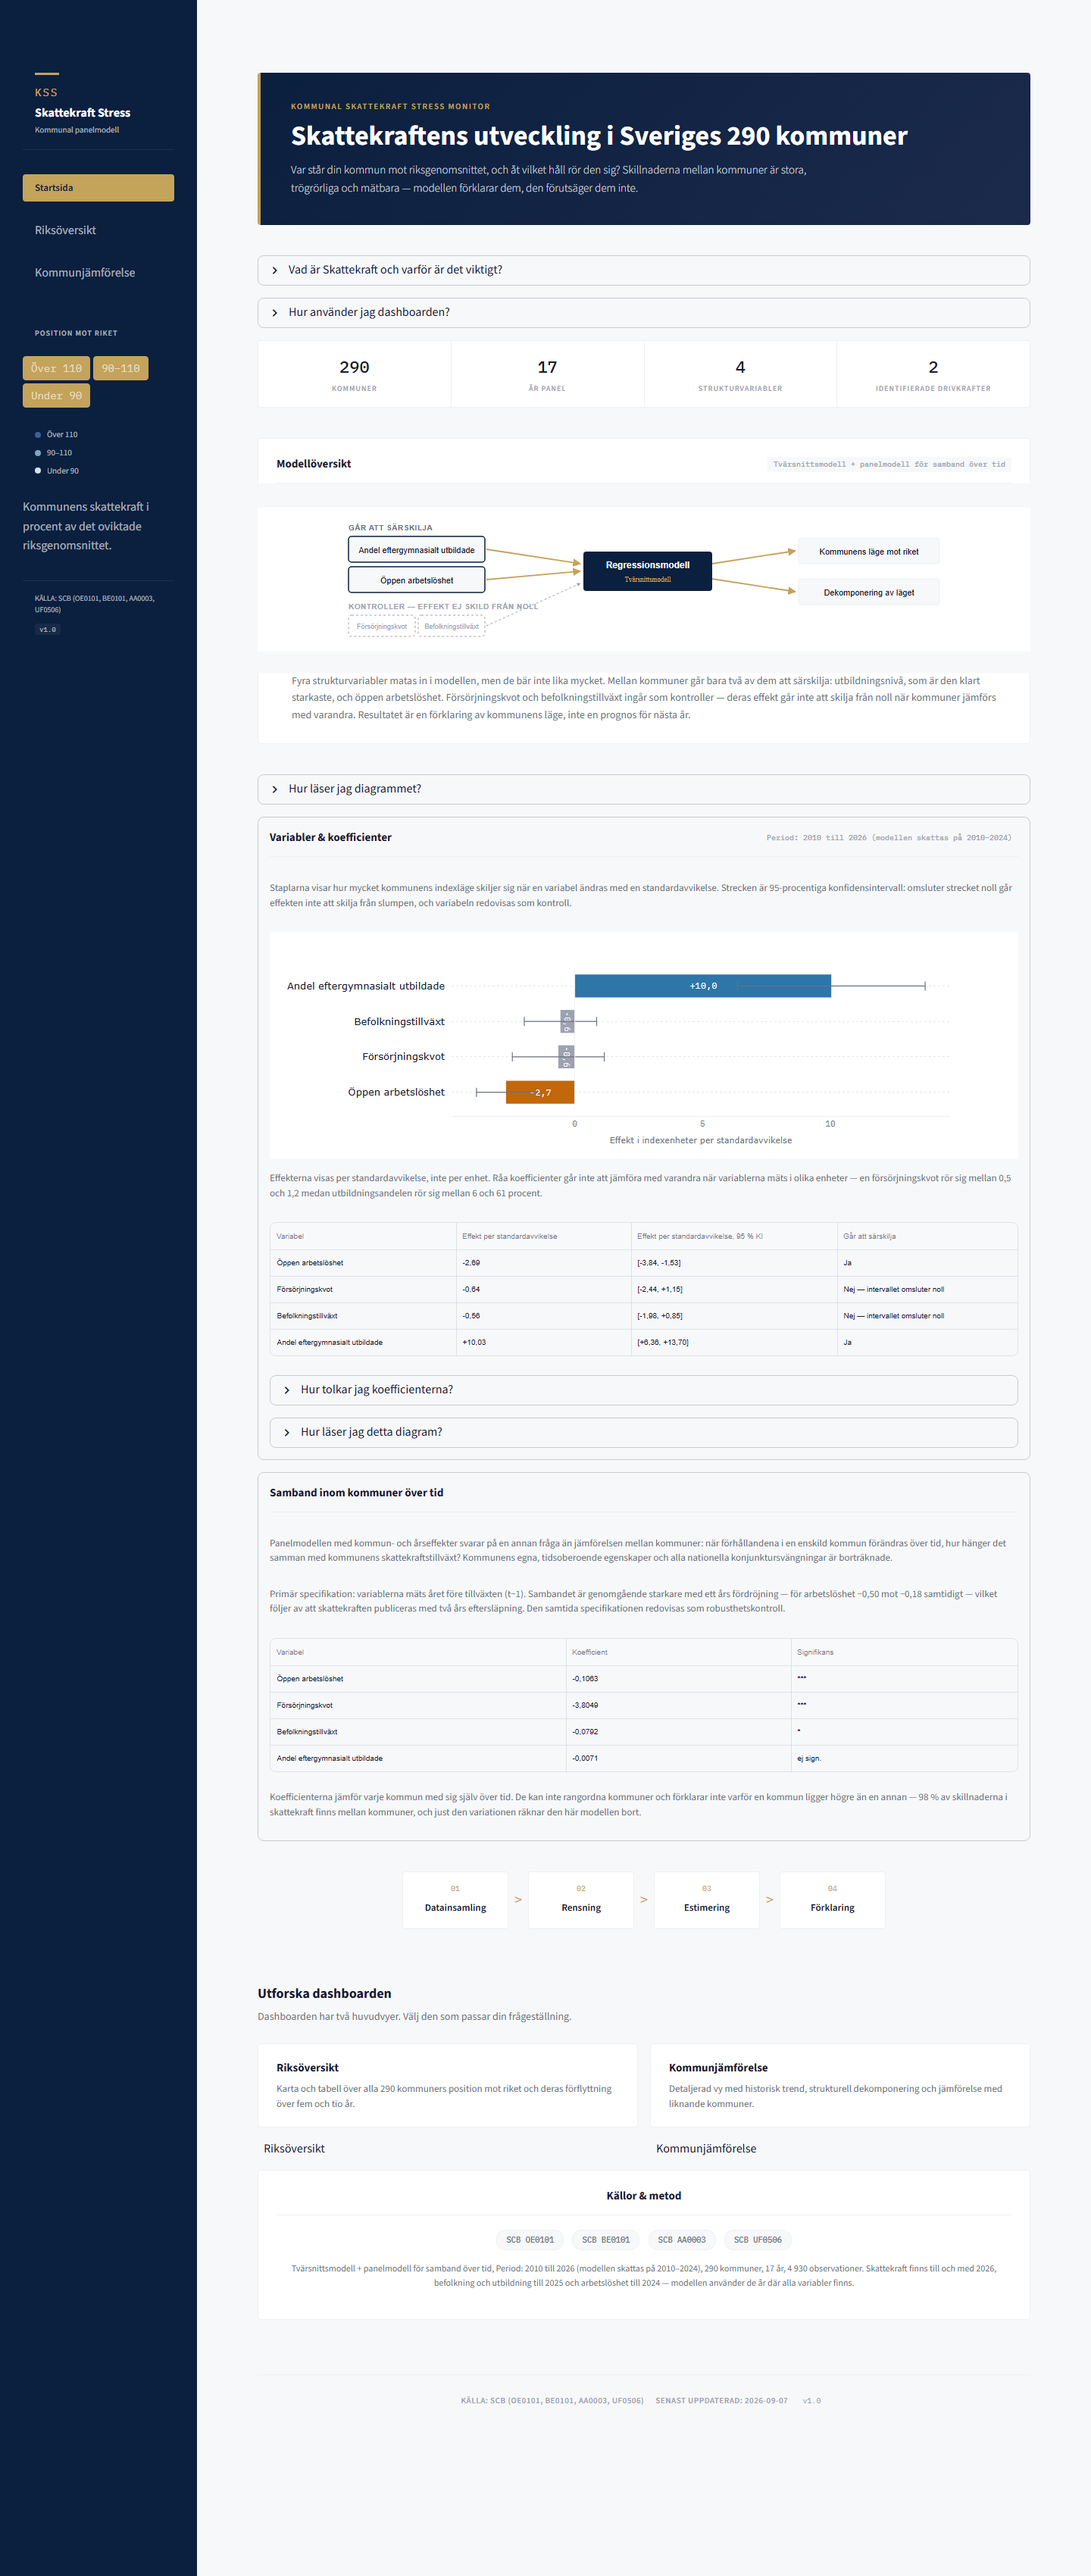
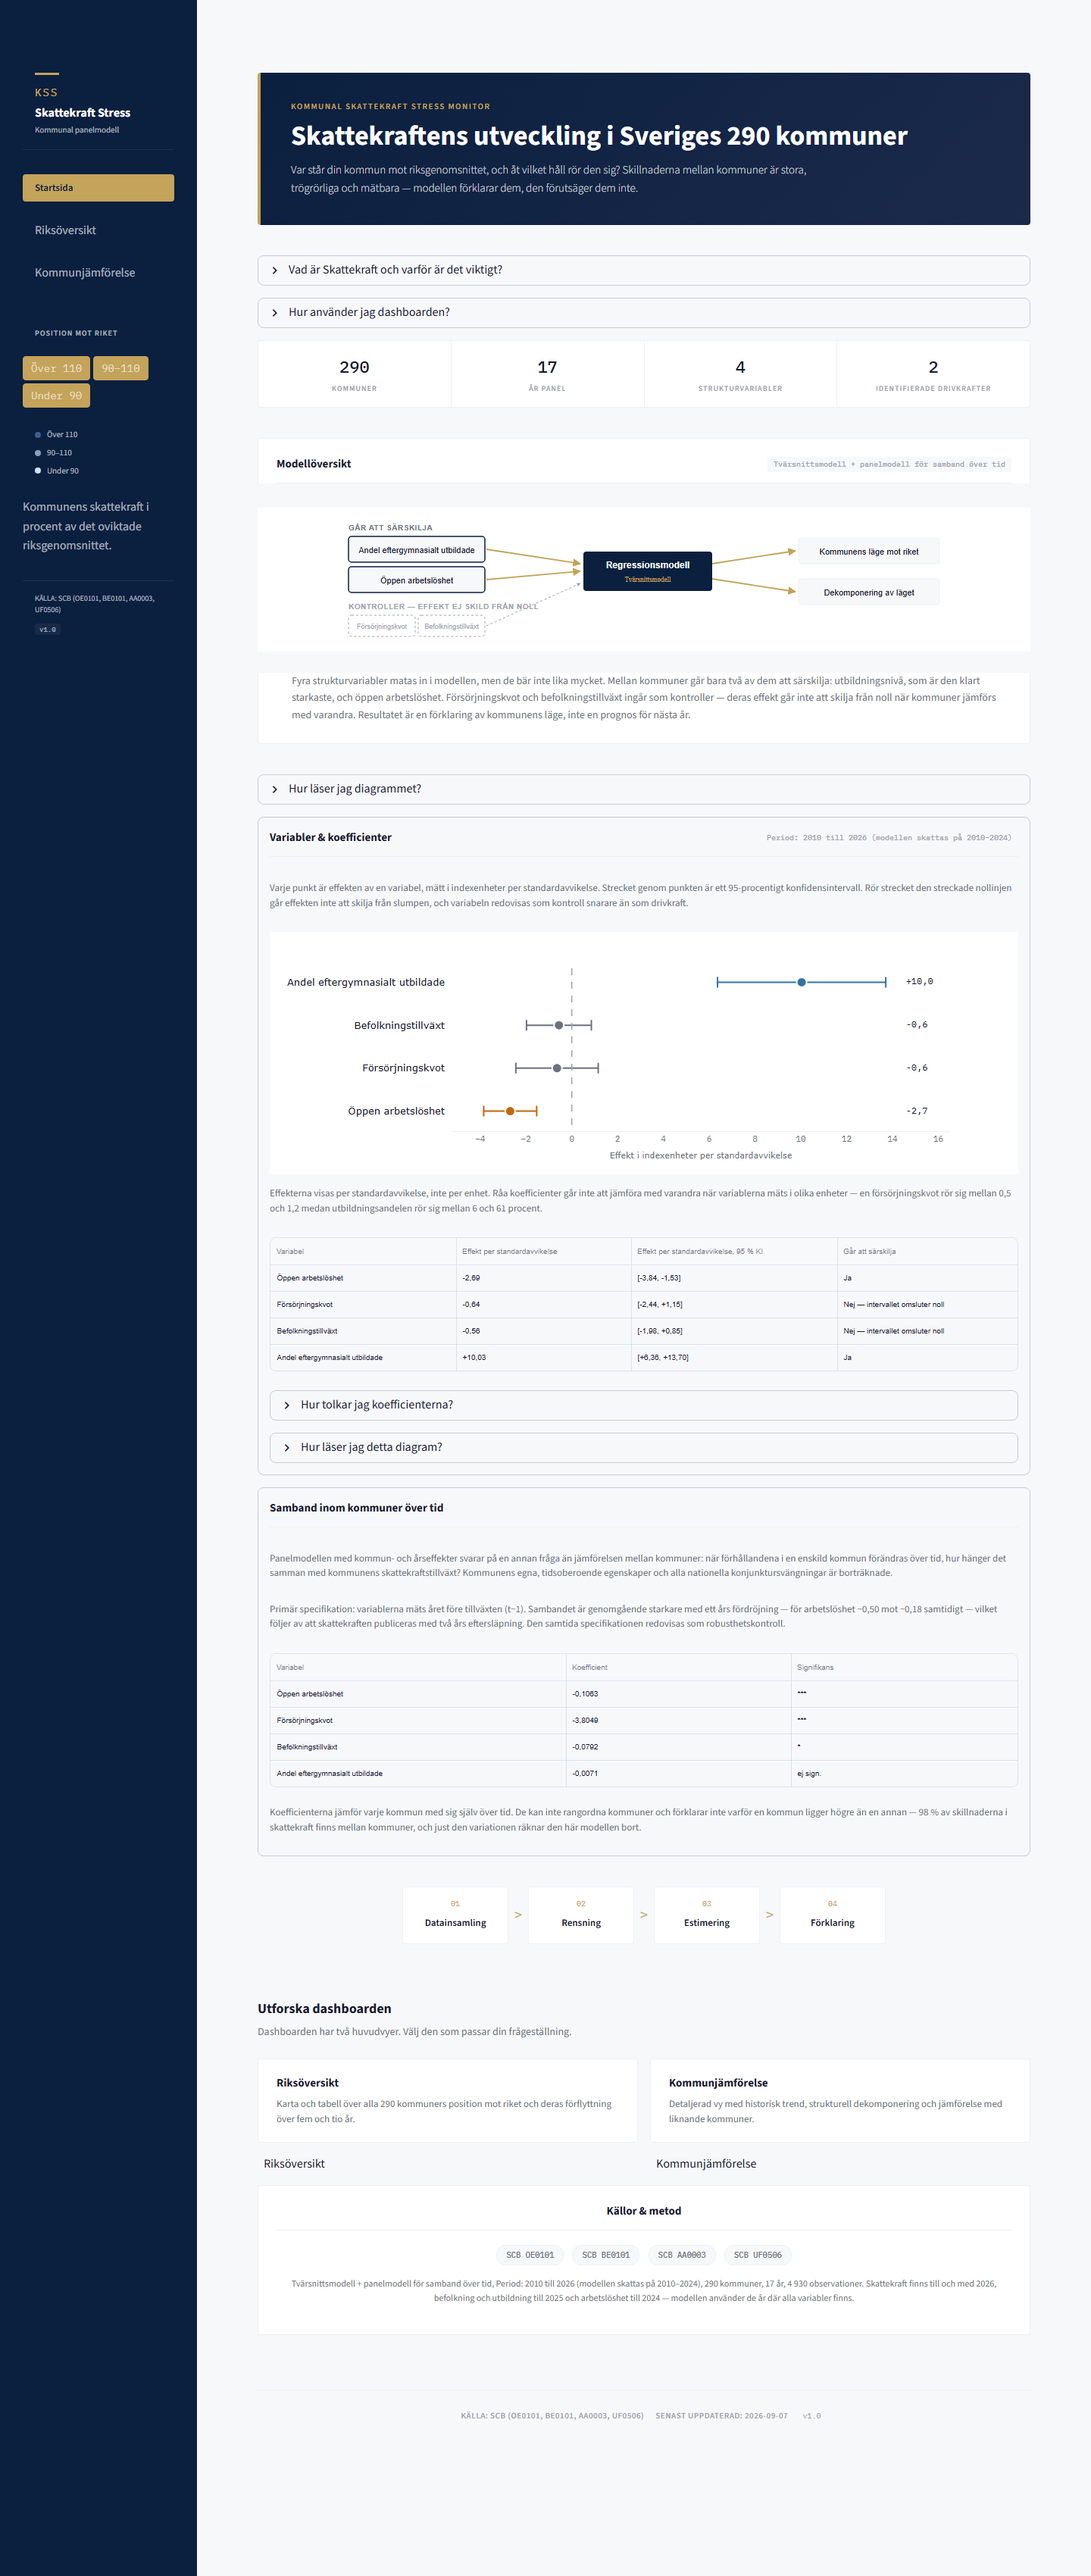
fix: the coefficient chart hid half of every interval behind its own bars
Reported as "the interval within the graphs is not in sync", and it was. A bar
encodes accumulation from zero, and the fill occupied exactly the space the
confidence interval needed: education's interval runs +6.4 to +13.7, so its
entire lower half sat inside a bar drawn from 0 to +10 and could not be seen.
The two control bars were worse -- 0.6 wide with intervals spanning 3.6 --
so Plotly rotated their value labels 90 degrees and squeezed them inside a
mark a few pixels across, where they were illegible.

Rebuilt as a dot-and-whisker: a point at the estimate, the full interval as a
line, and a dashed zero reference. Nothing is hidden, and the thing that
actually decides whether a variable is identified -- whether its interval
touches zero -- is now readable at a glance. The two grey controls visibly
cross the line; the two coloured ones visibly do not.

Colours were validated rather than eyeballed: the two hues pass the lightness,
chroma, CVD-separation, normal-vision and contrast checks. The de-emphasis
grey is achromatic on purpose, and moving it from #9CA3AF to #6B7280 also
clears the 3:1 contrast floor.

Values moved into a fixed right-hand column after the first attempt put the
unemployment label on top of the zero line, markers carry a surface ring so
they stay legible where they overlap their own whisker, and the axis now ticks
every 2 units across the negative range.

Also updates the two explanation strings that still said "staplarna" -- the
[…]

diff --git a/app.py b/app.py
@@ -290,45 +290,92 @@ plot_df = cross_df.copy()
 plot_df["label"] = plot_df["variable"].map(_VAR_LABEL_MAP)
 plot_df = plot_df.sort_values("beta_sd")
 
+# A dot-and-whisker, not a bar chart.  A bar encodes accumulation from zero and
+# fills the space the interval needs: for education the CI runs +6.4 to +13.7,
+# so a 0-to-10 bar hid its entire lower half behind the fill.  A point with a
+# whisker shows the estimate and the whole interval, and makes "crosses zero"
+# — the thing that decides whether a variable is identified — readable at a
+# glance.  See docs/screenshots/ for the version this replaced.
+_IDENTIFIED_COLOR = {True: None, False: COLORS["text_secondary"]}
+
+
+def _mark_color(value: float, identified: bool) -> str:
+    """Colour by sign when the effect is real, de-emphasis grey when it is not."""
+    if not identified:
+        return COLORS["text_secondary"]
+    return COLORS["positive"] if value >= 0 else COLORS["negative"]
+
+
+plot_df = plot_df.reset_index(drop=True)
 fig_coefs = go.Figure()
+
+for _, row in plot_df.iterrows():
+    colour = _mark_color(row["beta_sd"], bool(row["identified"]))
+    fig_coefs.add_trace(
+        go.Scatter(
+            x=[row["beta_sd"]],
+            y=[row["label"]],
+            mode="markers",
+            marker={
+                "size": 13,
+                "color": colour,
+                # A 2px surface ring keeps the marker legible where it overlaps
+                # its own whisker.
+                "line": {"width": 2, "color": COLORS["card_bg"]},
+            },
+            error_x={
+                "type": "data",
+                "symmetric": False,
+                "array": [row["upper_ci_sd"] - row["beta_sd"]],
+                "arrayminus": [row["beta_sd"] - row["lower_ci_sd"]],
+                "color": colour,
+                "thickness": 2,
+                "width": 7,
+            },
+            hovertemplate=(
+                f"<b>{row['label']}</b><br>"
+                + f"{row['beta_sd']:+.2f} ".replace(".", ",")
+                + SWEDISH_LABELS["unit_index_points"]
+                + f"<br>95 % KI [{row['lower_ci_sd']:+.2f}, {row['upper_ci_sd']:+.2f}]".replace(".", ",")
+                + "<extra></extra>"
+            ),
+            showlegend=False,
+        )
+    )
+
+# Values sit in a fixed column at the right, in text ink rather than the mark
+# colour.  Following each whisker's own end put the unemployment label on top
+# of the zero line; a column also reads like the table beneath it.
+_span = float(plot_df["upper_ci_sd"].max() - plot_df["lower_ci_sd"].min())
+_label_x = float(plot_df["upper_ci_sd"].max()) + _span * 0.05
 fig_coefs.add_trace(
-    go.Bar(
-        x=plot_df["beta_sd"],
+    go.Scatter(
+        x=[_label_x] * len(plot_df),
         y=plot_df["label"],
-        orientation="h",
-        marker_color=[
-            (COLORS["positive"] if v >= 0 else COLORS["negative"])
-            if ident
-            else COLORS["text_tertiary"]
-            for v, ident in zip(plot_df["beta_sd"], plot_df["identified"])
-        ],
-        marker_line_width=0,
-        error_x=dict(
-            type="data",
-            symmetric=False,
-            array=(plot_df["upper_ci_sd"] - plot_df["beta_sd"]).tolist(),
-            arrayminus=(plot_df["beta_sd"] - plot_df["lower_ci_sd"]).tolist(),
-            color=COLORS["text_secondary"],
-            thickness=1.2,
-            width=6,
-        ),
-        # Labels sit inside the bar: with error bars drawn, an outside label
-        # lands on top of the whisker.  Verified by screenshot 2026-09-07.
+        mode="text",
         text=[f"{v:+.1f}".replace(".", ",") for v in plot_df["beta_sd"]],
-        textposition="inside",
-        insidetextanchor="middle",
-        textfont={"family": "IBM Plex Mono", "size": 12, "color": "#FFFFFF"},
-        hovertemplate=(
-            "<b>%{y}</b><br>%{x:+.2f} "
-            + SWEDISH_LABELS["unit_index_points"]
-            + "<extra></extra>"
-        ),
+        textposition="middle right",
+        textfont={
+            "family": "IBM Plex Mono",
+            "size": 12,
+            "color": COLORS["text_primary"],
+        },
+        hoverinfo="skip",
+        showlegend=False,
     )
 )
-fig_coefs.add_vline(x=0, line_width=1, line_color=COLORS["border"])
+
+# Zero is the reference the whole chart is read against: if the whisker touches
+# it, the effect cannot be told from nothing.
+fig_coefs.add_vline(
+    x=0,
+    line_width=1.5,
+    line_dash="dash",
+    line_color=COLORS["text_tertiary"],
+)
 
 layout = get_chart_layout(
-    height=300,
+    height=320,
     xaxis_title=SWEDISH_LABELS["axis_beta_sd"],
     showlegend=False,
 )
@@ -337,9 +384,16 @@ layout["yaxis"]["tickfont"] = {
     "size": 13,
     "color": COLORS["text_primary"],
 }
+layout["yaxis"]["showgrid"] = False
+layout["xaxis"]["zeroline"] = False
+layout["xaxis"]["dtick"] = 2
 layout["margin"]["l"] = 240
 layout["margin"]["r"] = 90
-layout["bargap"] = 0.35
+# Breathing room so the outermost whisker and its label are never clipped.
+layout["xaxis"]["range"] = [
+    float(plot_df["lower_ci_sd"].min()) - _span * 0.08,
+    float(plot_df["upper_ci_sd"].max()) + _span * 0.16,
+]
 fig_coefs.update_layout(**layout)
 
 with st.container(border=True):

diff --git a/src/ui/labels.py b/src/ui/labels.py
@@ -173,10 +173,11 @@ SWEDISH_LABELS = {
     ),
     "landing_model_expander": "Hur läser jag diagrammet?",
     "landing_vars_explanation": (
-        "Staplarna visar hur mycket kommunens indexläge skiljer sig när en "
-        "variabel ändras med en standardavvikelse. Strecken är 95-procentiga "
-        "konfidensintervall: omsluter strecket noll går effekten inte att "
-        "skilja från slumpen, och variabeln redovisas som kontroll."
+        "Varje punkt är effekten av en variabel, mätt i indexenheter per "
+        "standardavvikelse. Strecket genom punkten är ett 95-procentigt "
+        "konfidensintervall. Rör strecket den streckade nollinjen går "
+        "effekten inte att skilja från slumpen, och variabeln redovisas som "
+        "kontroll snarare än som drivkraft."
     ),
     "landing_vars_example": (
         "Exempel: utbildningsnivån ligger på +10,0 indexenheter. En kommun vars "
@@ -552,21 +553,23 @@ SWEDISH_LABELS = {
     # Graph explanations (collapsible, standardized)
     "explain_coef_chart_expander": "Hur läser jag detta diagram?",
     "explain_coef_chart_text": (
-        "Staplarna visar effekten per standardavvikelse, i indexenheter. Det "
-        "är nödvändigt för att staplarna ska gå att jämföra: variablerna mäts "
-        "i olika enheter, så råa koefficienter säger ingenting om vilken som "
-        "betyder mest."
+        "Diagrammet visar effekten per standardavvikelse, i indexenheter. "
+        "Måttet behövs för att variablerna ska gå att jämföra med varandra: "
+        "de mäts i olika enheter, så råa koefficienter säger ingenting om "
+        "vilken som betyder mest."
         "\n\n"
-        "Strecket genom varje stapel är ett 95-procentigt konfidensintervall. "
-        "Omsluter det noll går effekten inte att skilja från slumpen, och "
-        "stapeln ritas grå — variabeln ingår i modellen som kontroll men "
-        "skiljer inte kommuner åt."
+        "Punkten är skattningen och strecket är dess 95-procentiga "
+        "konfidensintervall. Nollinjen är det som avgör: rör strecket den, "
+        "går effekten inte att skilja från noll, och punkten ritas grå. En "
+        "stapel från noll skulle dölja halva intervallet bakom sin egen "
+        "fyllning — därför punkt och streck i stället."
         "\n\n"
         "Exempel: utbildningsandelen ligger på +10,0 indexenheter per "
-        "standardavvikelse med intervallet [+6,4, +13,7]; försörjningskvoten "
-        "på −0,6 med intervallet [−2,4, +1,2]. Räknat i råa koefficienter ser "
-        "försörjningskvoten störst ut. Räknat i verklig effekt är den näst "
-        "minst, och går inte att skilja från noll."
+        "standardavvikelse med intervallet [+6,4, +13,7] — hela strecket "
+        "ligger klart över noll. Försörjningskvoten ligger på −0,6 med "
+        "intervallet [−2,4, +1,2], som omsluter noll. Räknat i råa "
+        "koefficienter ser försörjningskvoten störst ut av alla fyra; räknat "
+        "i verklig effekt går den inte att skilja från ingenting."
     ),
     "explain_choropleth_expander": "Hur läser jag kartan?",
     "explain_choropleth_text": (
